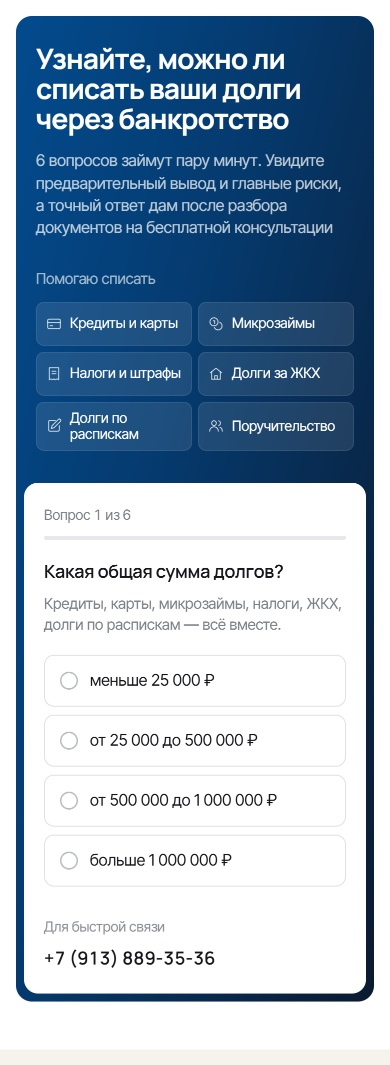
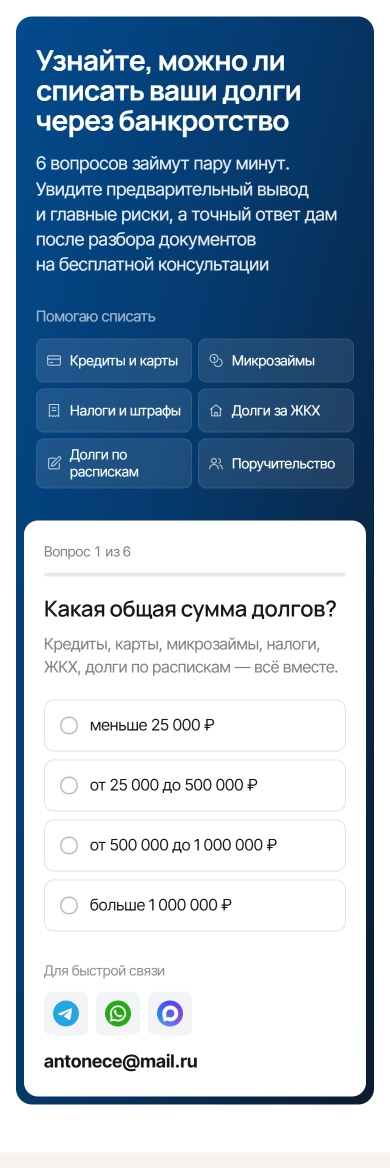
Квиз: мессенджеры и почта вместо номера, подзаголовок 90% белого; ₽ и разряды чисел не отрываются

Changed region(s): [[0.0308, 0.031, 0.9538, 0.9606]]

diff --git a/src/data/typo.ts b/src/data/typo.ts
@@ -1,16 +1,23 @@
 /**
  * Неразрывный пробел после коротких предлогов, союзов и частиц,
  * чтобы они не висели в конце строки: «работа с банками» → «работа с&nbsp;банками».
+ * Плюс: разряды чисел и знак ₽ / «млн» не отрываются от числа.
  */
-const re = /(^|[\s («])(в|во|с|со|и|к|ко|о|об|обо|у|а|но|на|по|за|от|до|из|не|ни|для|при|без|под|над|или|что)[^\S ]+/gi;
+const re = /(^|[\s («])(в|во|с|со|и|к|ко|о|об|обо|у|а|но|на|по|за|от|до|из|не|ни|для|при|без|под|над|или|что)[^\S ]+/gi;
+const NBSP = ' ';
 
 export const nb = (text: string) => {
   let prev = '';
   let s = text;
   while (prev !== s) {
     prev = s;
-    s = s.replace(re, (_, a: string, w: string) => `${a}${w} `);
+    s = s.replace(re, (_, a: string, w: string) => `${a}${w}${NBSP}`);
   }
+  // разряды чисел и знак рубля не разрываются: «1 000 000 ₽», «95 000 руб.»
+  s = s
+    .replace(/(\d)[  ](?=\d{3}(?:\D|$))/g, `$1${NBSP}`)
+    .replace(/(\d)\s+(₽|руб\.?|млн|млрд|тыс\.?)/g, `$1${NBSP}$2`)
+    .replace(/(млн|млрд|тыс\.?)\s+₽/g, `$1${NBSP}₽`);
   // неразрывный дефис в коротких составных словах: «из-за», «из-под», «кое-как»
   return s.replace(/(^|[^А-Яа-яЁё])([А-Яа-яЁё]{1,3})-([А-Яа-яЁё]{1,4})(?=[^А-Яа-яЁё]|$)/g, (_, a: string, x: string, y: string) => `${a}${x}‑${y}`);
 };
